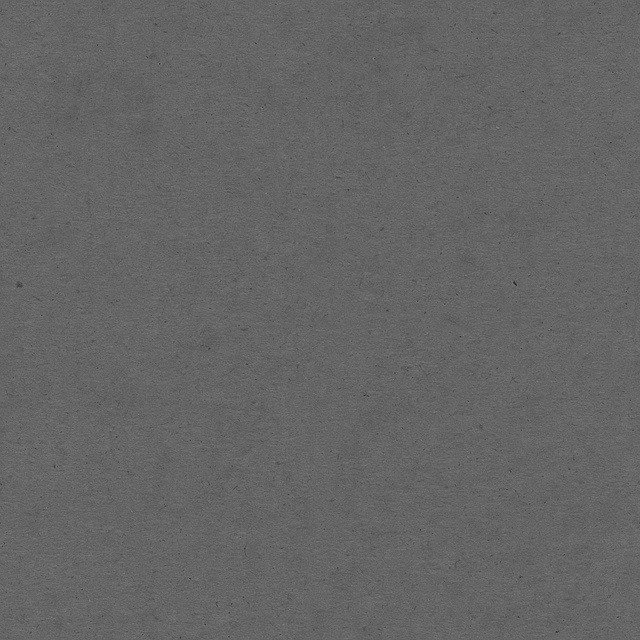
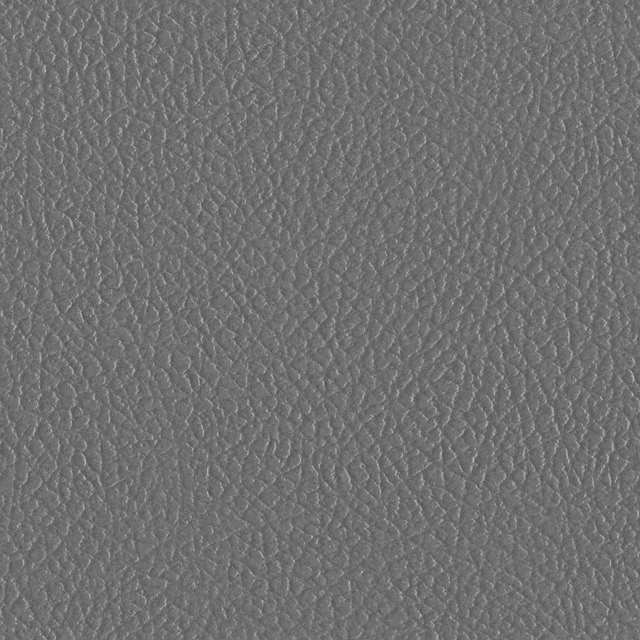
fix(background): change background and adapt other colors to it

Changed region(s): [[0.0, 0.0, 1.0, 1.0]]

diff --git a/src/App.vue b/src/App.vue
@@ -7,21 +7,24 @@
         </transition>
       </div>
     </div>
-    <div class="nav">
-      <a @click="$router.push({name: 'dial'})" :class="{
-        active: $route.name === 'dial'
-      }">Cadran</a>
-      |
-      <a @click="$router.push({name: 'doughnut'})" :class="{
-        active: $route.name === 'doughnut'
-      }">Cercle</a>
-      |
-      <a @click="$router.push({name: 'digital'})" :class="{
-        active: $route.name === 'digital'
-      }">Numérique</a>
-    </div>
-    <div class="explain">
-      Nous sommes le {{pad(clock.day)}}/{{pad(clock.month)}}/{{clock.year}}. Il est {{pad(clock.hours)}}:{{pad(clock.minutes)}}:{{pad(clock.seconds)}} et nous ne somme plus qu'à {{clock.universe}} secondes de l'apocalypse.
+    <div class="general-infos">
+      <div class="nav">
+        <a @click="$router.push({name: 'dial'})" :class="{
+          active: $route.name === 'dial'
+        }">Cadran</a>
+        |
+        <a @click="$router.push({name: 'doughnut'})" :class="{
+          active: $route.name === 'doughnut'
+        }">Cercle</a>
+        |
+        <a @click="$router.push({name: 'digital'})" :class="{
+          active: $route.name === 'digital'
+        }">Numérique</a>
+      </div>
+      <div class="explain">
+        Nous sommes le {{pad(clock.day)}}/{{pad(clock.month)}}/{{clock.year}}.<br>
+        Il est {{pad(clock.hours)}}:{{pad(clock.minutes)}}:{{pad(clock.seconds)}}.<br>Et nous ne somme plus qu'à {{clock.universe}} secondes de l'apocalypse.
+      </div>
     </div>
   </div>
 </template>
@@ -47,6 +50,7 @@ body {
   width: 100vw;
   margin: 0;
   background-image: url('/background.jpg');
+  background-size: 200px;
   a {
     color: white;
   }
@@ -61,26 +65,39 @@ body {
     display: flex;
     justify-content: center;
     align-items: center;
-    box-shadow: 0 0 14px 8px #0404043b;
-    background-color: #00000026;
-    border: 1px solid #797979;
+    box-shadow: 0 0 14px 8px #2323238f;
+    background-color: #1b1b1b45;
+    border: 1px solid #797979cf;
     width: 300px;
     height: 300px;
     border-radius: 50%;
-
   }
+}
+
+.general-infos {
+  display: flex;
+  flex-direction: column;
+  justify-content: center;
+  align-items: center;
+  background-color: #21212124;
+  box-shadow: 0 0 14px 8px #23232354;
+  border: 1px solid #a6a5a563;
+  border-radius: 4px;
+  width: 100%;
+  box-sizing: border-box;
+  padding: 5px;
 }
 .nav {
   margin: 50px;
+  margin-top: 0;
+  margin-bottom: 20px;
   display: flex;
-  align-items: center;
-  background-color: #ffffff08;
-  box-shadow: 1px 1px 8px 4px #00000020;
-  border: 1px solid #a6a5a563;
-  border-radius: 4px;
+  padding: 5px;
+  border-bottom: 1px solid #707070;
+  box-shadow: 0 13px 19px -14px #2323238f;
   &,a {
-    color: rgba(255, 255, 255, 0.37);
-    text-shadow: 0px 0px 4px #3d3d3d;
+    color: #ffffff91;
+    text-shadow: 0px 0px 4px #000000
   }
   a {
     display: flex;
@@ -89,13 +106,13 @@ body {
     width: 100px;
     height: 100%;
     margin: 0 10px;
-    padding: 10px;
+    padding: 5px 10px;
     box-sizing: border-box;
     overflow: visible;
     transition: 300ms;
     cursor: pointer;
     &.active {
-      color: white;
+      color: #cfcfcf;
       font-weight: bold;
     }
     &:hover, &.active {
@@ -104,11 +121,11 @@ body {
   }
 }
 .explain {
-  margin: 20px;
-  font-weight: bold;
-  color: rgba(255, 255, 255, 0.37);
-  font-size: 1.2em;
-  text-shadow: 0px 0px 4px #3d3d3d;
+  margin: 0 50px;
+  padding-bottom: 20px;
+  color: #ffffff80;
+  text-shadow: 0px 0px 4px #000000
+
 }
 #app {
   height: 100%;
